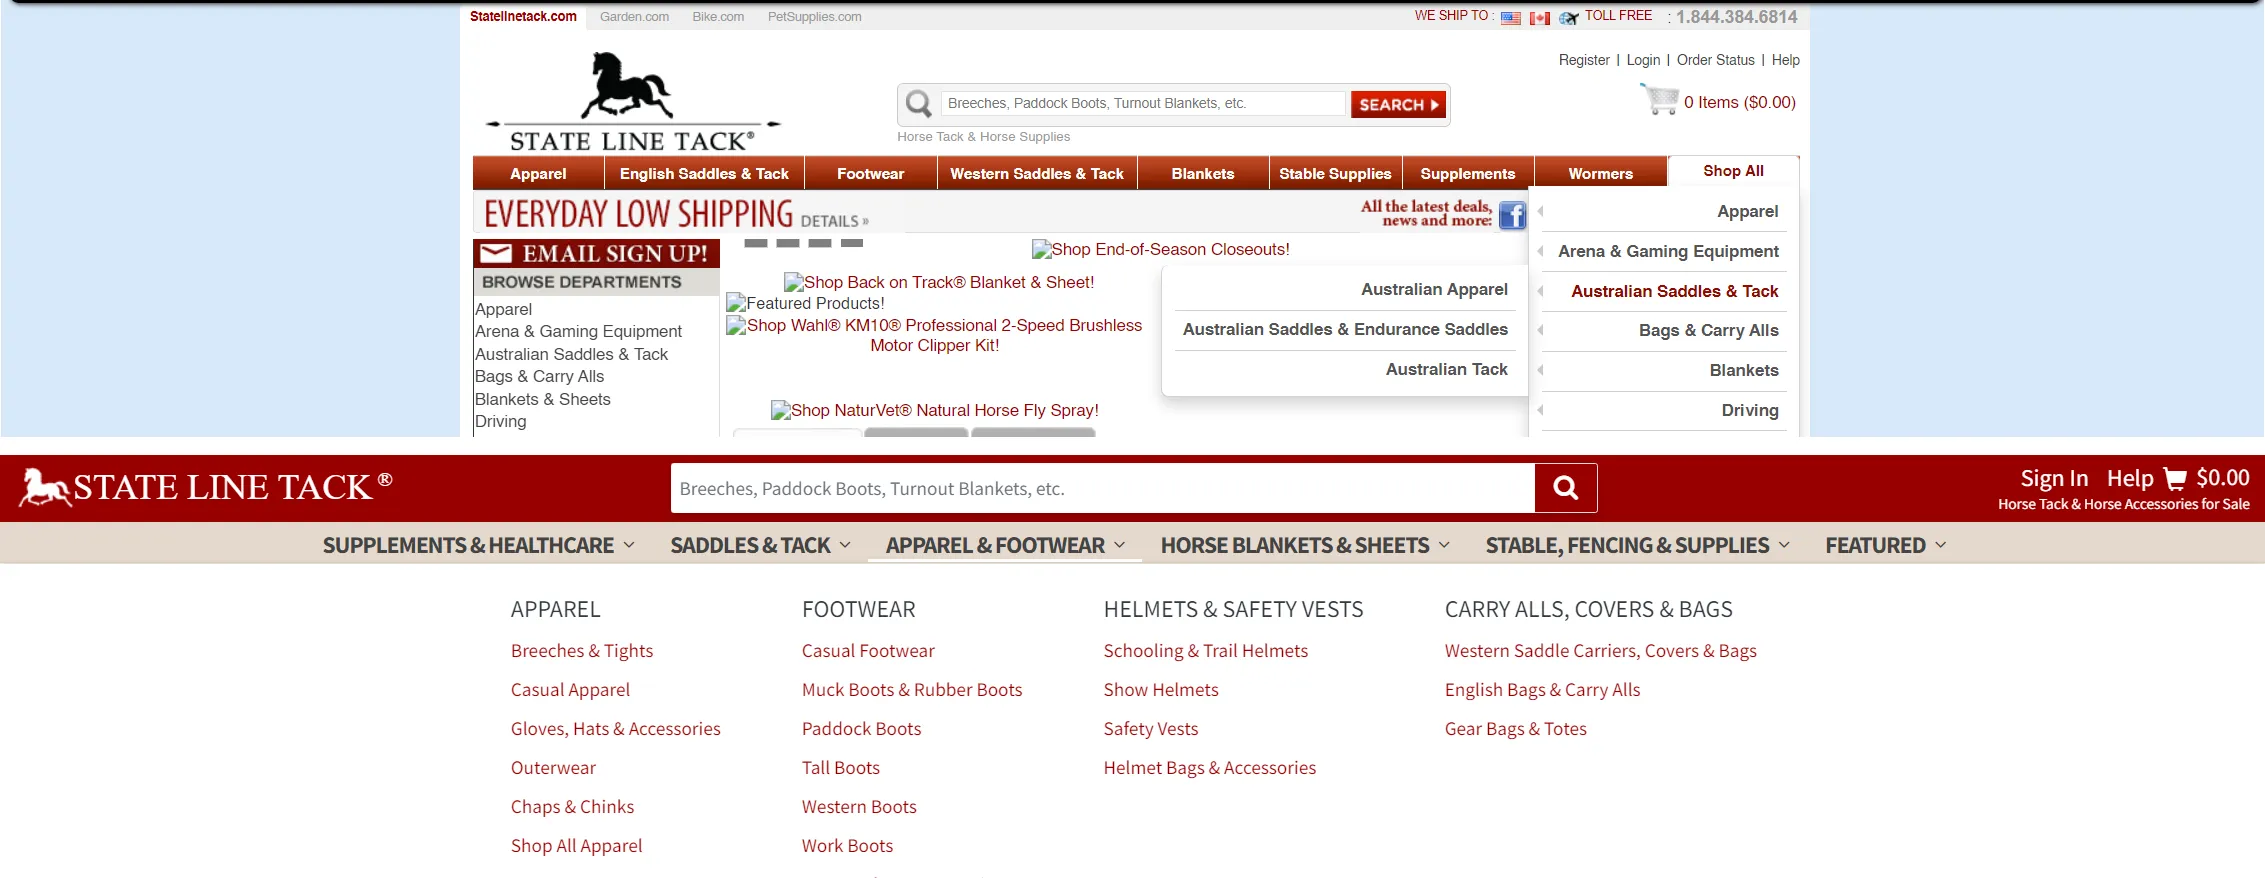
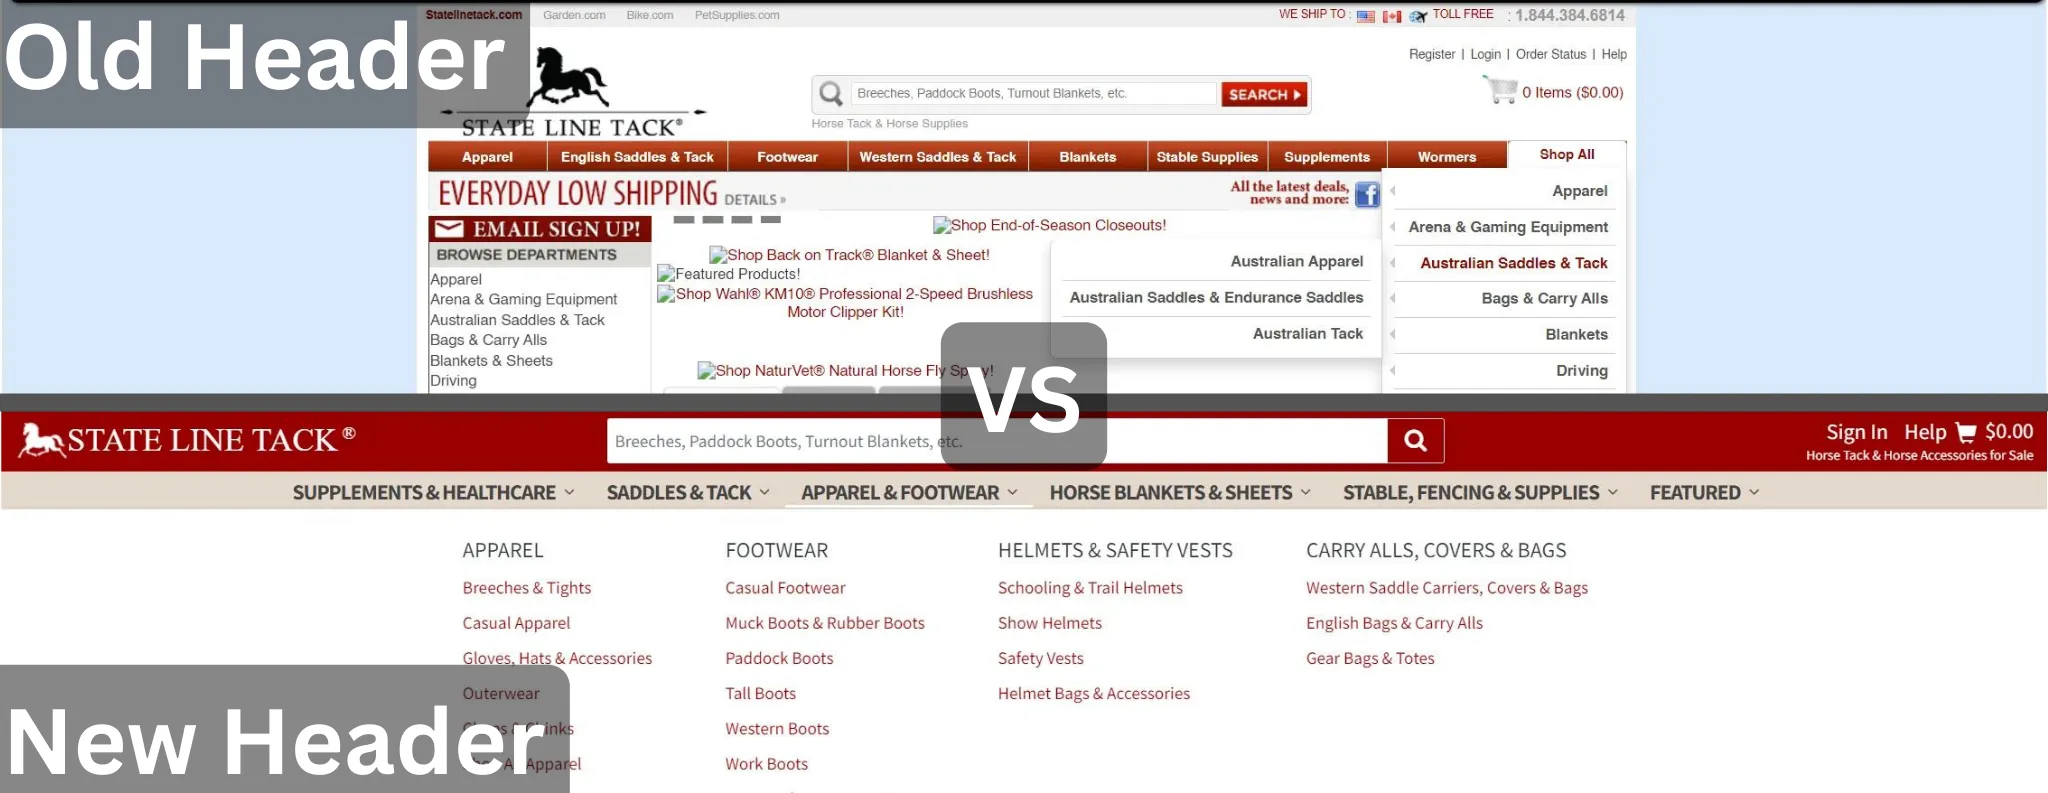
updating post

diff --git a/_posts/2021-01-16-Site Header Upgrade.html b/_posts/2021-01-16-Site Header Upgrade.html
@@ -10,10 +10,11 @@ tags:
 - Product Management
 - twitter bootstrap
 ---
-<div class="p-3 border rounded mb-4 me-md-5 col-md-6 float-start px-4">
+<div>
+<div class="p-3 border rounded mb-4 px-4">
   <img src="/about/assets/images/slt-old-header.webp" alt="custom ecommerce website header conversion" class="img-fluid rounded">
 </div>
-<div class="d-flex flex-wrap">
+<div>
   <h3>Problems</h3>
   <p>
     <ul>
@@ -28,6 +29,7 @@ tags:
   </p>
   <h3>The Conversion</h3>
   <p>
+   
     We were able to successfully upgrade the header and it is currently undergoing A/B split tested.
     Even if the split test doesn't result in a huge win I am going to 
     push to have it implemented as long as it is not a huge loss. The upgrade to 
@@ -35,8 +37,12 @@ tags:
     several security vulnerabilities, removes loads of CSS / JS and lowers the dom size by using less HTML overall.
     All of these upgrades will result in a higher Google Core Web Vitals score which translates to faster page loads 
     and higher conversion rates.
+
   </p>
   <h3>What We Did:</h3>
+  <div class="p-3 border rounded mb-4 px-4">
+    <img src="/about/assets/images/slt-new-header.webp" alt="custom ecommerce website header conversion" class="img-fluid rounded">
+  </div>
   <ul>
     <li>Rebuilt the header from scratch using Bootstrap's grid system and flexbox</li>
     <li>Built the navigation as a new 'mega nav' to better align with current UI trends</li>
@@ -45,4 +51,5 @@ tags:
     <li>Responsiveness - Entire header uses 1 HTML / CSS source which is responsive. Devs no longer have to manage 4 code spots when making small updates</li>
     <li>Replaced jQuery and jQuery UI plugins with new vanilla js custom built stream lined async web components</li>
   </ul>
+</div>
 </div>
